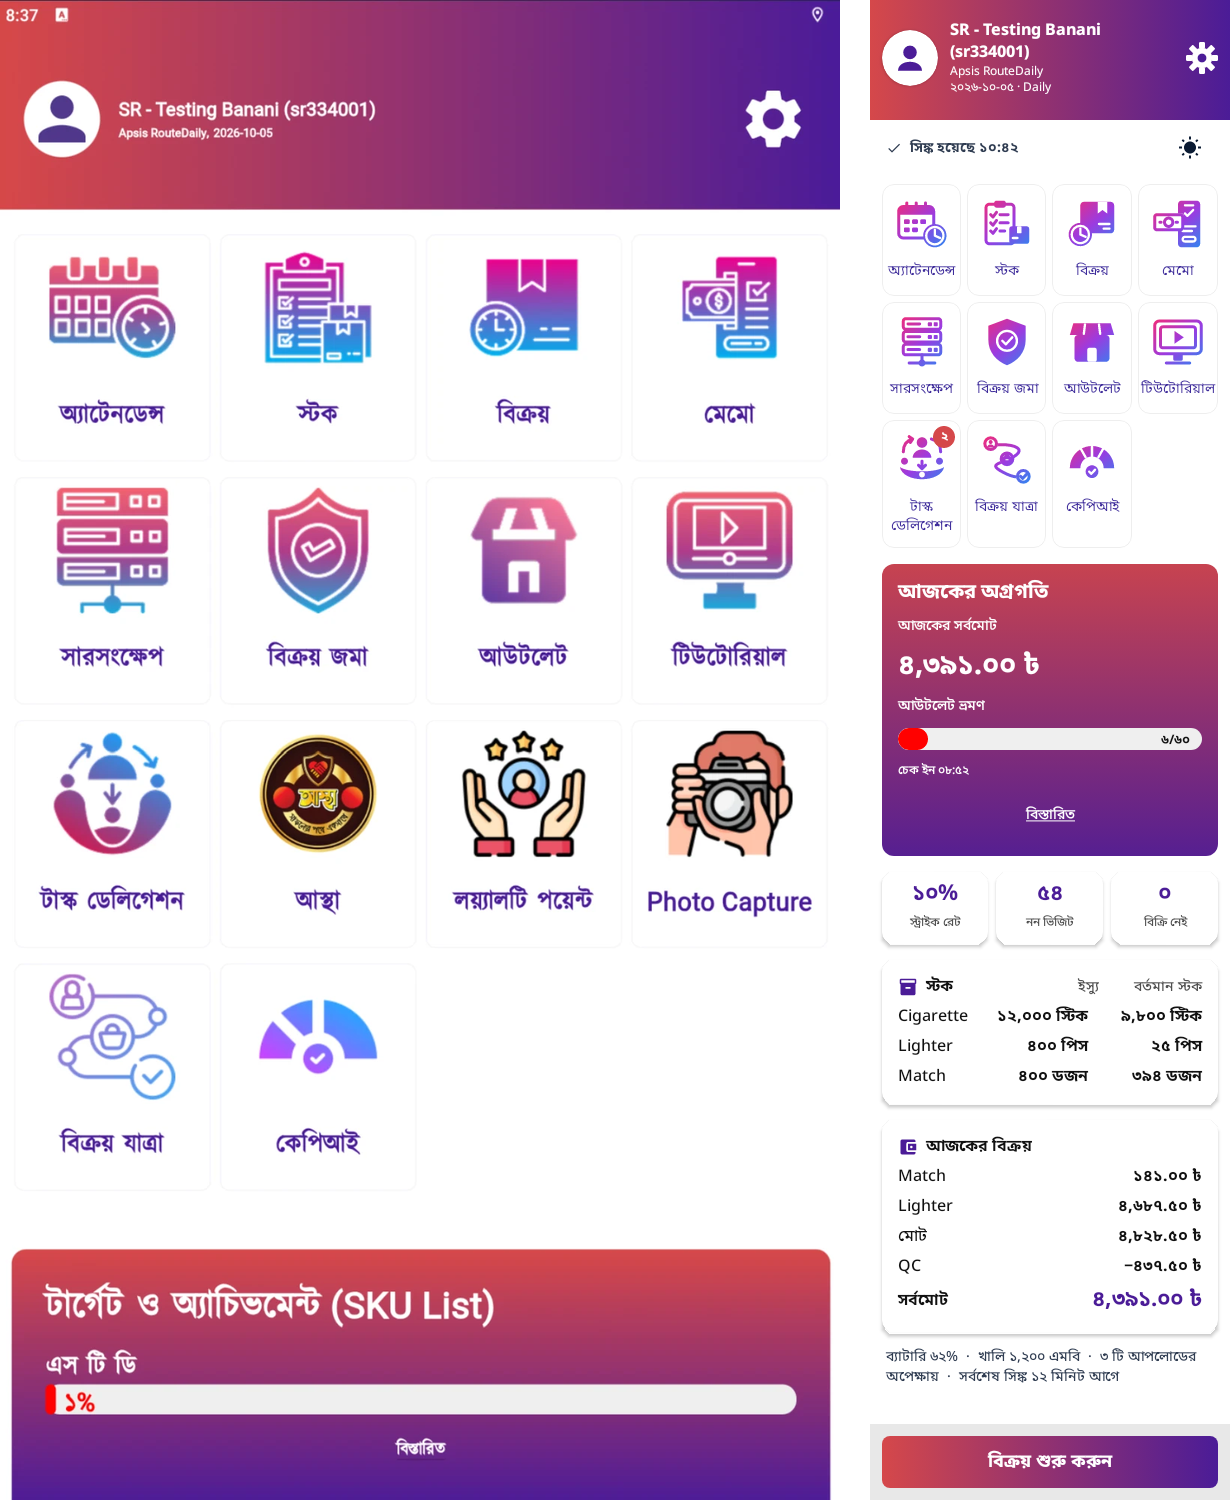
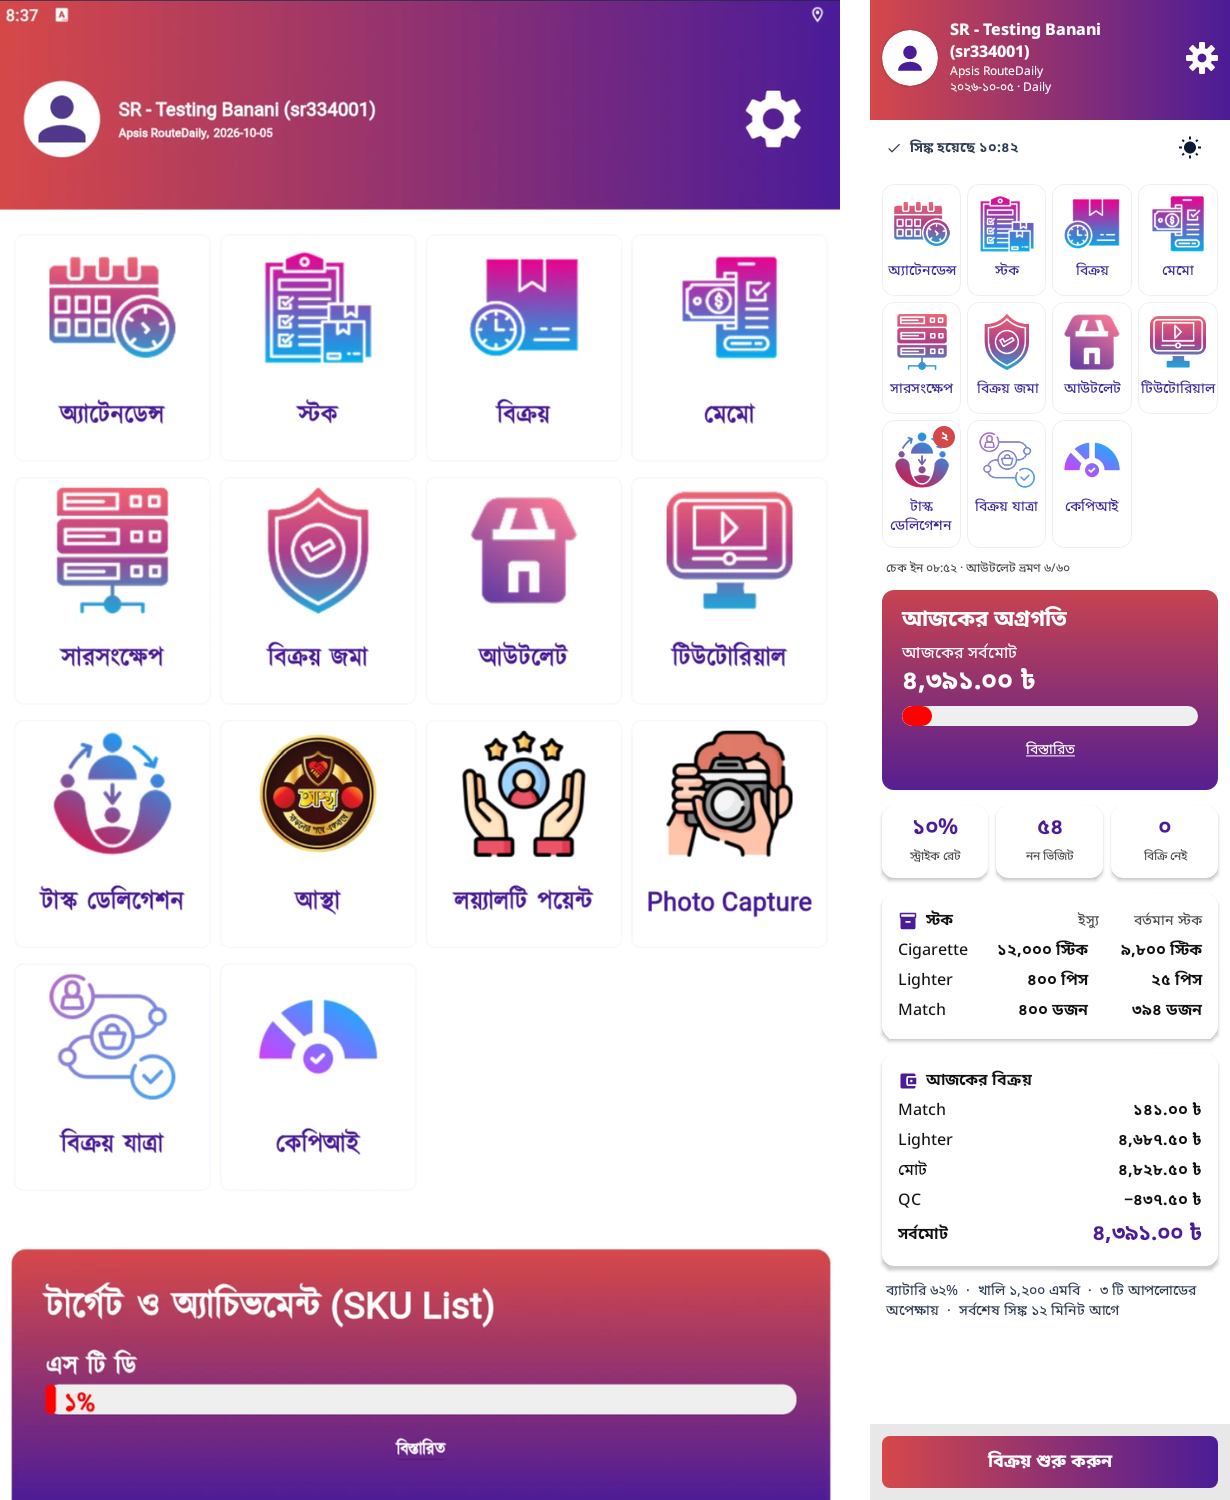
ui-sr-a: Home test follows the new caption; side-by-side refreshed
Claude-Session: https://claude.ai/code/session_01Cd6RMH6UoLJmTmx3KUSQmH

diff --git a/android/feature-home/src/test/kotlin/com/aktcl/aron/feature/home/HomeScreenTest.kt b/android/feature-home/src/test/kotlin/com/aktcl/aron/feature/home/HomeScreenTest.kt
@@ -86,7 +86,7 @@ class HomeScreenTest {
         show(AppLanguage.EN, hero = hero, kpis = kpis, money = money, dock = HomeDock.START_SELLING, sync = SyncChipState.Waiting(3))
         compose.onNodeWithTag(HomeScreenTags.HERO).assertExists()
         compose.onNodeWithText("Today's total").assertExists()
-        compose.onNodeWithText("Checked in 08:52").assertExists()
+        compose.onNodeWithText("Checked in 08:52", substring = true).assertExists(); compose.onNodeWithText("6/60", substring = true).assertExists()
         compose.onNodeWithTag(HomeScreenTags.CHIP).assertExists()
         compose.onNodeWithTag(HomeScreenTags.KPI).assertExists()
         compose.onNodeWithText("Strike rate").assertExists(); compose.onNodeWithText("Non-visit").assertExists()
